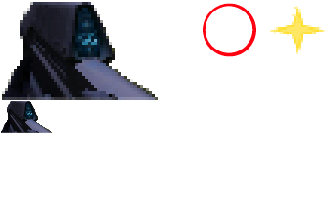
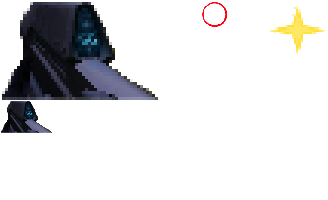
made reticle smaller

Changed region(s): [[0.6098, 0.0, 0.7927, 0.3]]

diff --git a/dist/main.js b/dist/main.js
@@ -93,7 +93,7 @@
 /*! no static exports found */
 /***/ (function(module, exports, __webpack_require__) {
 
-eval("module.exports = __webpack_require__.p + \"421b9663a8be2ea5a057186c50c46099.png\";\n\n//# sourceURL=webpack:///./client/assets/graphics.png?");
+eval("module.exports = __webpack_require__.p + \"0e66cc149214e02e316db85016103196.png\";\n\n//# sourceURL=webpack:///./client/assets/graphics.png?");
 
 /***/ }),
 
@@ -105,7 +105,7 @@ eval("module.exports = __webpack_require__.p + \"421b9663a8be2ea5a057186c50c4609
 /***/ (function(module, __webpack_exports__, __webpack_require__) {
 
 "use strict";
-eval("__webpack_require__.r(__webpack_exports__);\n/* harmony import */ var _assets_graphics_png__WEBPACK_IMPORTED_MODULE_0__ = __webpack_require__(/*! ./assets/graphics.png */ \"./client/assets/graphics.png\");\n/* harmony import */ var _assets_graphics_png__WEBPACK_IMPORTED_MODULE_0___default = /*#__PURE__*/__webpack_require__.n(_assets_graphics_png__WEBPACK_IMPORTED_MODULE_0__);\n\r\n\r\nvar PI_2 = Math.PI / 2;\r\n\r\nwindow.onload = function() {\r\n  var havePointerLock =\r\n    \"pointerLockElement\" in document ||\r\n    \"mozPointerLockElement\" in document ||\r\n    \"webkitPointerLockElement\" in document;\r\n\r\n  var canvas = document.getElementById(\"canvas\");\r\n  canvas.width = window.innerWidth;\r\n  canvas.height = window.innerHeight;\r\n  var context = canvas.getContext(\"2d\");\r\n  var graphics = new Image();\r\n  graphics.src = _assets_graphics_png__WEBPACK_IMPORTED_MODULE_0___default.a;\r\n  // Ask the browser to release the pointer\r\n  // document.exitPointerLock = document.exitPointerLock ||\r\n  // \t\t\t   document.mozExitPointerLock ||\r\n  // \t\t\t   document.webkitExitPointerLock;\r\n  // document.exitPointerLock();\r\n\r\n  var scene = new THREE.Scene();\r\n  var camera = new THREE.PerspectiveCamera(\r\n    80,\r\n    window.innerWidth / window.innerHeight,\r\n    1,\r\n    9000\r\n  );\r\n\r\n  camera.rotation.order = \"YXZ\";\r\n  camera.rotation.set(0, 0, 0);\r\n\r\n  // var pitchObject = new THREE.Object3D();\r\n  // pitchObject.add(camera);\r\n  // var yawObject = new THREE.Object3D();\r\n  // yawObject.position.y = 0;\r\n  // yawObject.add(pitchObject);\r\n\r\n  var ctrl = {\r\n    w: false,\r\n    a: false,\r\n    s: false,\r\n    d: false,\r\n    mouseButton: false,\r\n    space: false\r\n  };\r\n  document.addEventListener(\"keydown\", function(e) {\r\n    console.log(e.keyCode);\r\n    switch (e.keyCode) {\r\n      case 87:\r\n        ctrl.w = true;\r\n        break;\r\n      case 65:\r\n        ctrl.a = true;\r\n        break;\r\n      case 83:\r\n        ctrl.s = true;\r\n        break;\r\n      case 68:\r\n        ctrl.d = true;\r\n        break;\r\n      case 32:\r\n        ctrl.space = true;\r\n        break;\r\n    }\r\n  });\r\n\r\n  document.addEventListener(\"keyup\", function(e) {\r\n    switch (e.keyCode) {\r\n      case 87:\r\n        ctrl.w = false;\r\n        break;\r\n      case 65:\r\n        ctrl.a = false;\r\n        break;\r\n      case 83:\r\n        ctrl.s = false;\r\n        break;\r\n      case 68:\r\n        ctrl.d = false;\r\n        break;\r\n      case 32:\r\n        ctrl.space = false;\r\n        break;\r\n    }\r\n  });\r\n\r\n  document.addEventListener(\"mouseup\", event => {\r\n    ctrl.mouseButton = false;\r\n  });\r\n  var renderer = new THREE.WebGLRenderer();\r\n  renderer.setPixelRatio(window.devicePixelRatio);\r\n  renderer.setSize(window.innerWidth, window.innerHeight);\r\n  renderer.setClearColor(0x4444ff);\r\n  document.body.appendChild(renderer.domElement);\r\n\r\n  var lastJump = 0;\r\n  var jumping = false;\r\n  var jumpCount = 0;\r\n\r\n  var pointerIsLockedFlag = false;\r\n  var lastShot = 0;\r\n  var shooting = false;\r\n  document.addEventListener(\"mousedown\", event => {\r\n    renderer.domElement.requestPointerLock =\r\n      renderer.domElement.requestPointerLock ||\r\n      renderer.domElement.mozRequestPointerLock;\r\n    renderer.domElement.requestPointerLock();\r\n    pointerIsLockedFlag = true;\r\n    ctrl.mouseButton = true;\r\n  });\r\n\r\n  // make map\r\n  // ground\r\n  var geometry = new THREE.BoxGeometry(100, 1, 100);\r\n  // var material = new THREE.MeshBasicMaterial({ color: 0x00ff00 });\r\n  var grassTexture = new THREE.ImageUtils.loadTexture(\"./grass.jpg\", function(\r\n    texture\r\n  ) {\r\n    texture.wrapS = THREE.RepeatWrapping;\r\n    texture.wrapT = THREE.RepeatWrapping;\r\n    texture.repeat.x = 10;\r\n    texture.repeat.y = 10;\r\n  });\r\n  var boxMaterial1 = new THREE.MeshBasicMaterial({\r\n    map: grassTexture,\r\n    reflectivity: 0.8\r\n  });\r\n  var ground = new THREE.Mesh(geometry, boxMaterial1);\r\n  ground.position.z = 0;\r\n  scene.add(ground);\r\n\r\n  // boxes\r\n  var brickTexture = new THREE.ImageUtils.loadTexture(\"./brick.png\");\r\n  var brickMaterial = new THREE.MeshBasicMaterial({\r\n    map: brickTexture,\r\n    reflectivity: 0.8\r\n  });\r\n  // var cubeMat = new THREE.MeshBasicMaterial({ color: 0x444444 });\r\n  for (var i = 0; i < 10; i++) {\r\n    for (var j = 0; j < 10; j++) {\r\n      if (Math.floor(Math.random() * 10) < 3) {\r\n        var cubeGeo = new THREE.BoxGeometry(10, 10, 10);\r\n        // var cube = new THREE.Mesh(cubeGeo, cubeMat);\r\n        var cube = new THREE.Mesh(cubeGeo, brickMaterial);\r\n        cube.position.x = i * 10 - 50;\r\n        cube.position.z = j * 10 - 50;\r\n        scene.add(cube);\r\n      }\r\n    }\r\n  }\r\n\r\n  document.addEventListener(\"mousemove\", event => {\r\n    if (pointerIsLockedFlag) {\r\n      var movementX =\r\n        event.movementX || event.mozMovementX || event.webkitMovementX || 0;\r\n      var movementY =\r\n        event.movementY || event.mozMovementY || event.webkitMovementY || 0;\r\n\r\n      camera.rotation.y -= movementX * 0.002;\r\n      if (\r\n        camera.rotation.x - movementY * 0.002 < 1.5 &&\r\n        camera.rotation.x - movementY * 0.002 > -1.5\r\n      )\r\n        camera.rotation.x -= movementY * 0.002;\r\n\r\n      console.log(camera.rotation.x);\r\n    }\r\n  });\r\n\r\n  function animate() {\r\n    requestAnimationFrame(animate);\r\n\r\n    if (ctrl.mouseButton && Date.now() - lastShot > 100) {\r\n      shooting = true;\r\n      lastShot = Date.now();\r\n    }\r\n\r\n    if (ctrl.space && Date.now() - lastJump > 1000) {\r\n      this.lastJump = Date.now();\r\n      jumping = true;\r\n      jumpCount = 0;\r\n    }\r\n\r\n    camera.position.y = 2;\r\n\r\n    if (shooting) {\r\n      if (Date.now() - lastShot > 50) {\r\n        shooting = false;\r\n      }\r\n    }\r\n    if (ctrl.w) camera.translateZ(-0.2);\r\n    if (ctrl.s) camera.translateZ(0.2);\r\n    if (ctrl.a) camera.translateX(-0.2);\r\n    if (ctrl.d) camera.translateX(0.2);\r\n\r\n    context.clearRect(0, 0, canvas.width, canvas.height);\r\n    context.fillStyle = \"#ff0000\";\r\n    // context.fillRect(0, 0, canvas.width, canvas.height);\r\n    if (shooting) {\r\n      context.drawImage(\r\n        graphics,\r\n        260,\r\n        0,\r\n        70,\r\n        60,\r\n        canvas.width - 450,\r\n        canvas.height - 250,\r\n        164 * 2,\r\n        200\r\n      );\r\n      context.drawImage(\r\n        graphics,\r\n        0,\r\n        0,\r\n        164,\r\n        100,\r\n        canvas.width - 310,\r\n        canvas.height - 100 * 2,\r\n        164 * 2,\r\n        100 * 2\r\n      );\r\n    }\r\n    if (!shooting) {\r\n      context.drawImage(\r\n        graphics,\r\n        0,\r\n        0,\r\n        164,\r\n        100,\r\n        canvas.width - 164 * 2,\r\n        canvas.height - 100 * 2,\r\n        164 * 2,\r\n        100 * 2\r\n      );\r\n    }\r\n\r\n    context.drawImage(\r\n      graphics,\r\n      200,\r\n      0,\r\n      60,\r\n      60,\r\n      canvas.width / 2,\r\n      canvas.height / 2,\r\n      60,\r\n      60\r\n    );\r\n    renderer.render(scene, camera);\r\n  }\r\n  animate();\r\n};\r\n\n\n//# sourceURL=webpack:///./client/index.js?");
+eval("__webpack_require__.r(__webpack_exports__);\n/* harmony import */ var _assets_graphics_png__WEBPACK_IMPORTED_MODULE_0__ = __webpack_require__(/*! ./assets/graphics.png */ \"./client/assets/graphics.png\");\n/* harmony import */ var _assets_graphics_png__WEBPACK_IMPORTED_MODULE_0___default = /*#__PURE__*/__webpack_require__.n(_assets_graphics_png__WEBPACK_IMPORTED_MODULE_0__);\n\r\n\r\nvar PI_2 = Math.PI / 2;\r\n\r\nwindow.onload = function() {\r\n  var havePointerLock =\r\n    \"pointerLockElement\" in document ||\r\n    \"mozPointerLockElement\" in document ||\r\n    \"webkitPointerLockElement\" in document;\r\n\r\n  var canvas = document.getElementById(\"canvas\");\r\n  canvas.width = window.innerWidth;\r\n  canvas.height = window.innerHeight;\r\n  var context = canvas.getContext(\"2d\");\r\n  var graphics = new Image();\r\n  graphics.src = _assets_graphics_png__WEBPACK_IMPORTED_MODULE_0___default.a;\r\n  // Ask the browser to release the pointer\r\n  // document.exitPointerLock = document.exitPointerLock ||\r\n  // \t\t\t   document.mozExitPointerLock ||\r\n  // \t\t\t   document.webkitExitPointerLock;\r\n  // document.exitPointerLock();\r\n\r\n  var scene = new THREE.Scene();\r\n  var camera = new THREE.PerspectiveCamera(\r\n    80,\r\n    window.innerWidth / window.innerHeight,\r\n    1,\r\n    9000\r\n  );\r\n\r\n  camera.rotation.order = \"YXZ\";\r\n  camera.rotation.set(0, 0, 0);\r\n\r\n  // var pitchObject = new THREE.Object3D();\r\n  // pitchObject.add(camera);\r\n  // var yawObject = new THREE.Object3D();\r\n  // yawObject.position.y = 0;\r\n  // yawObject.add(pitchObject);\r\n\r\n  var ctrl = {\r\n    w: false,\r\n    a: false,\r\n    s: false,\r\n    d: false,\r\n    mouseButton: false,\r\n    space: false\r\n  };\r\n  document.addEventListener(\"keydown\", function(e) {\r\n    console.log(e.keyCode);\r\n    switch (e.keyCode) {\r\n      case 87:\r\n        ctrl.w = true;\r\n        break;\r\n      case 65:\r\n        ctrl.a = true;\r\n        break;\r\n      case 83:\r\n        ctrl.s = true;\r\n        break;\r\n      case 68:\r\n        ctrl.d = true;\r\n        break;\r\n      case 32:\r\n        ctrl.space = true;\r\n        break;\r\n    }\r\n  });\r\n\r\n  document.addEventListener(\"keyup\", function(e) {\r\n    switch (e.keyCode) {\r\n      case 87:\r\n        ctrl.w = false;\r\n        break;\r\n      case 65:\r\n        ctrl.a = false;\r\n        break;\r\n      case 83:\r\n        ctrl.s = false;\r\n        break;\r\n      case 68:\r\n        ctrl.d = false;\r\n        break;\r\n      case 32:\r\n        ctrl.space = false;\r\n        break;\r\n    }\r\n  });\r\n\r\n  document.addEventListener(\"mouseup\", event => {\r\n    ctrl.mouseButton = false;\r\n  });\r\n  var renderer = new THREE.WebGLRenderer();\r\n  renderer.setPixelRatio(window.devicePixelRatio);\r\n  renderer.setSize(window.innerWidth, window.innerHeight);\r\n  renderer.setClearColor(0x4444ff);\r\n  document.body.appendChild(renderer.domElement);\r\n\r\n  var lastJump = 0;\r\n  var jumping = false;\r\n  var jumpCount = 0;\r\n\r\n  var pointerIsLockedFlag = false;\r\n  var lastShot = 0;\r\n  var shooting = false;\r\n  document.addEventListener(\"mousedown\", event => {\r\n    renderer.domElement.requestPointerLock =\r\n      renderer.domElement.requestPointerLock ||\r\n      renderer.domElement.mozRequestPointerLock;\r\n    renderer.domElement.requestPointerLock();\r\n    pointerIsLockedFlag = true;\r\n    ctrl.mouseButton = true;\r\n  });\r\n\r\n  // make map\r\n  // ground\r\n  var geometry = new THREE.BoxGeometry(100, 1, 100);\r\n  // var material = new THREE.MeshBasicMaterial({ color: 0x00ff00 });\r\n  var grassTexture = new THREE.ImageUtils.loadTexture(\"./grass.jpg\", function(\r\n    texture\r\n  ) {\r\n    texture.wrapS = THREE.RepeatWrapping;\r\n    texture.wrapT = THREE.RepeatWrapping;\r\n    texture.repeat.x = 10;\r\n    texture.repeat.y = 10;\r\n  });\r\n  var boxMaterial1 = new THREE.MeshBasicMaterial({\r\n    map: grassTexture,\r\n    reflectivity: 0.8\r\n  });\r\n  var ground = new THREE.Mesh(geometry, boxMaterial1);\r\n  ground.position.z = 0;\r\n  scene.add(ground);\r\n\r\n  // boxes\r\n  var brickTexture = new THREE.ImageUtils.loadTexture(\"./brick.png\");\r\n  var brickMaterial = new THREE.MeshBasicMaterial({\r\n    map: brickTexture,\r\n    reflectivity: 0.8\r\n  });\r\n  // var cubeMat = new THREE.MeshBasicMaterial({ color: 0x444444 });\r\n  for (var i = 0; i < 10; i++) {\r\n    for (var j = 0; j < 10; j++) {\r\n      if (Math.floor(Math.random() * 10) < 3) {\r\n        var cubeGeo = new THREE.BoxGeometry(10, 10, 10);\r\n        // var cube = new THREE.Mesh(cubeGeo, cubeMat);\r\n        var cube = new THREE.Mesh(cubeGeo, brickMaterial);\r\n        cube.position.x = i * 10 - 50;\r\n        cube.position.z = j * 10 - 50;\r\n        scene.add(cube);\r\n      }\r\n    }\r\n  }\r\n\r\n  document.addEventListener(\"mousemove\", event => {\r\n    if (pointerIsLockedFlag) {\r\n      var movementX =\r\n        event.movementX || event.mozMovementX || event.webkitMovementX || 0;\r\n      var movementY =\r\n        event.movementY || event.mozMovementY || event.webkitMovementY || 0;\r\n\r\n      camera.rotation.y -= movementX * 0.002;\r\n      if (\r\n        camera.rotation.x - movementY * 0.002 < 1.5 &&\r\n        camera.rotation.x - movementY * 0.002 > -1.5\r\n      )\r\n        camera.rotation.x -= movementY * 0.002;\r\n\r\n      console.log(camera.rotation.x);\r\n    }\r\n  });\r\n\r\n  function animate() {\r\n    requestAnimationFrame(animate);\r\n\r\n    if (ctrl.mouseButton && Date.now() - lastShot > 100) {\r\n      shooting = true;\r\n      lastShot = Date.now();\r\n    }\r\n\r\n    if (ctrl.space && Date.now() - lastJump > 1000) {\r\n      this.lastJump = Date.now();\r\n      jumping = true;\r\n      jumpCount = 0;\r\n    }\r\n\r\n    camera.position.y = 2;\r\n\r\n    if (shooting) {\r\n      if (Date.now() - lastShot > 50) {\r\n        shooting = false;\r\n      }\r\n    }\r\n    if (ctrl.w) camera.translateZ(-0.2);\r\n    if (ctrl.s) camera.translateZ(0.2);\r\n    if (ctrl.a) camera.translateX(-0.2);\r\n    if (ctrl.d) camera.translateX(0.2);\r\n\r\n    context.clearRect(0, 0, canvas.width, canvas.height);\r\n    context.fillStyle = \"#ff0000\";\r\n    // context.fillRect(0, 0, canvas.width, canvas.height);\r\n    if (shooting) {\r\n      context.drawImage(\r\n        graphics,\r\n        260,\r\n        0,\r\n        70,\r\n        60,\r\n        canvas.width - 450,\r\n        canvas.height - 250,\r\n        164 * 2,\r\n        200\r\n      );\r\n      context.drawImage(\r\n        graphics,\r\n        0,\r\n        0,\r\n        164,\r\n        100,\r\n        canvas.width - 310,\r\n        canvas.height - 100 * 2,\r\n        164 * 2,\r\n        100 * 2\r\n      );\r\n    }\r\n    if (!shooting) {\r\n      context.drawImage(\r\n        graphics,\r\n        0,\r\n        0,\r\n        164,\r\n        100,\r\n        canvas.width - 164 * 2,\r\n        canvas.height - 100 * 2,\r\n        164 * 2,\r\n        100 * 2\r\n      );\r\n    }\r\n\r\n    context.drawImage(\r\n      graphics,\r\n      200,\r\n      0,\r\n      28,\r\n      28,\r\n      canvas.width / 2,\r\n      canvas.height / 2,\r\n      28,\r\n      28\r\n    );\r\n    renderer.render(scene, camera);\r\n  }\r\n  animate();\r\n};\r\n\n\n//# sourceURL=webpack:///./client/index.js?");
 
 /***/ })
 

diff --git a/client/index.js b/client/index.js
@@ -240,12 +240,12 @@ window.onload = function() {
       graphics,
       200,
       0,
-      60,
-      60,
+      28,
+      28,
       canvas.width / 2,
       canvas.height / 2,
-      60,
-      60
+      28,
+      28
     );
     renderer.render(scene, camera);
   }
